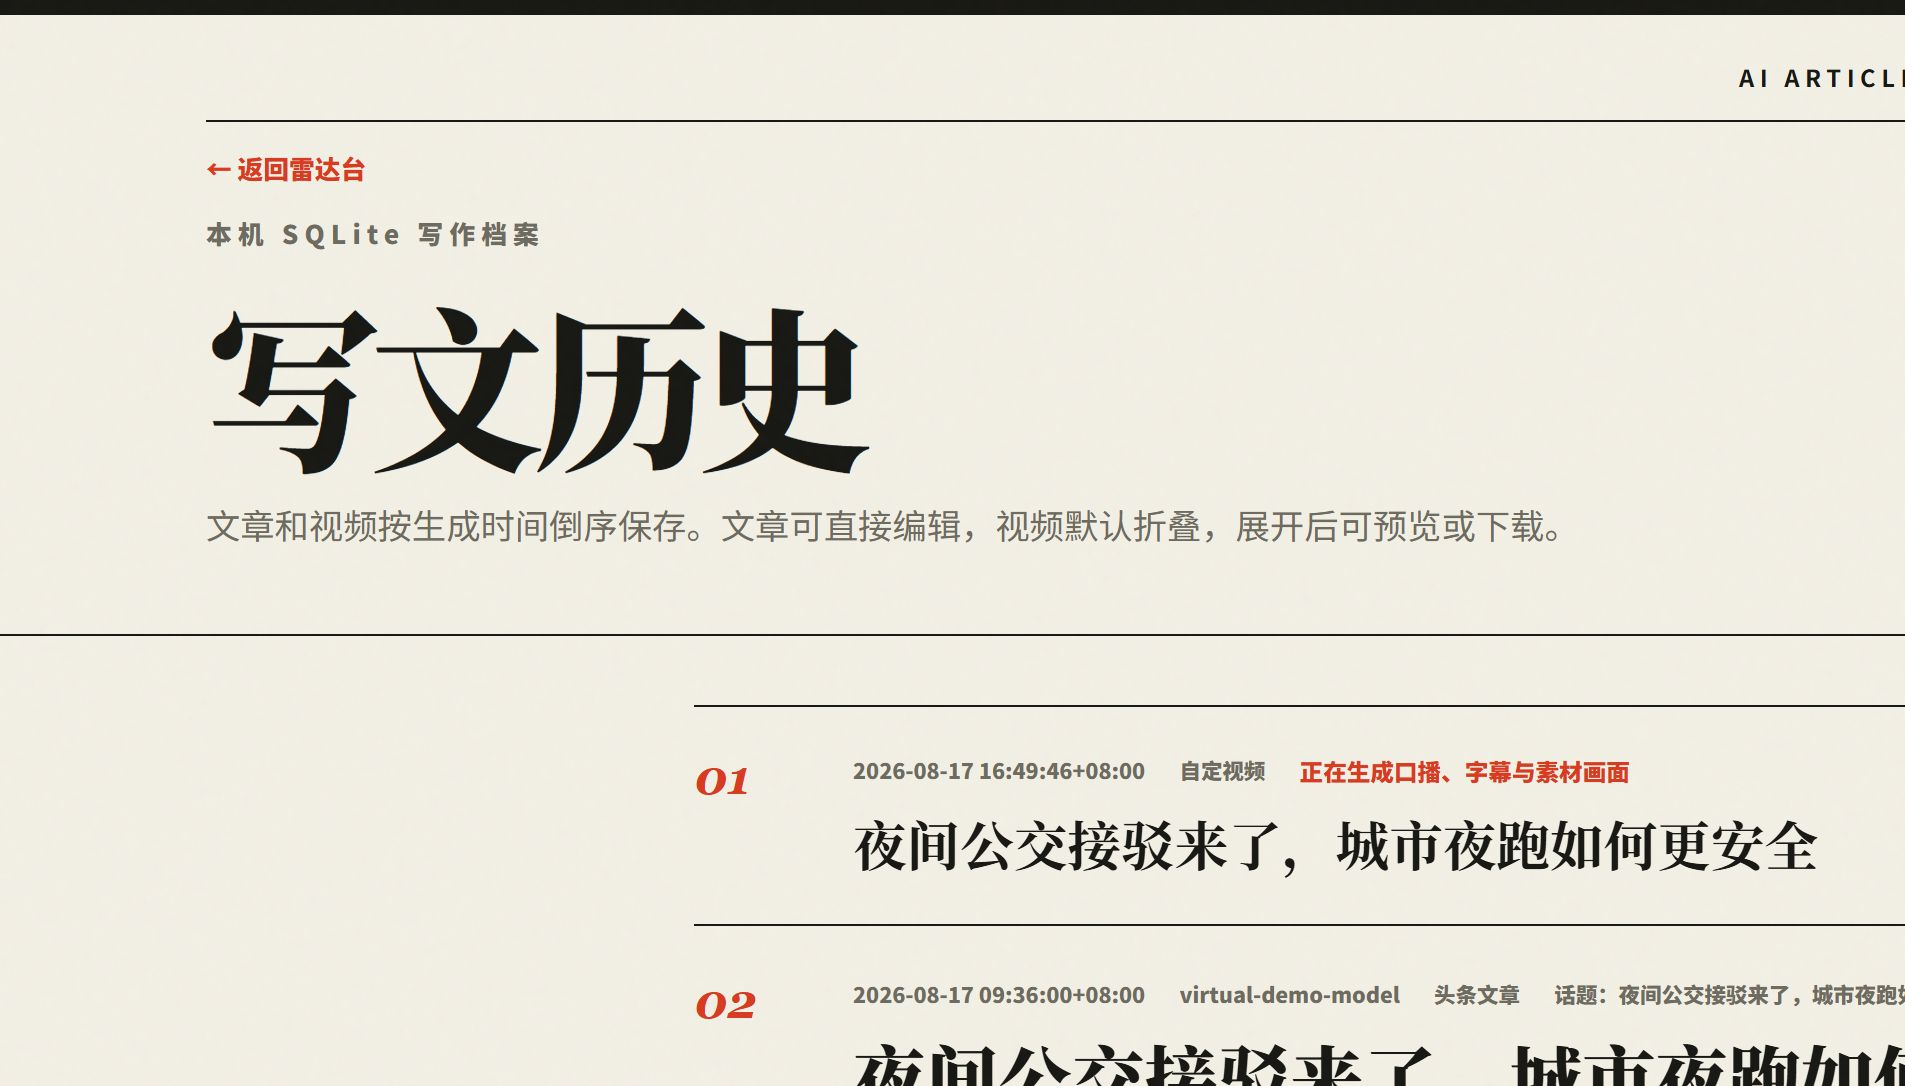
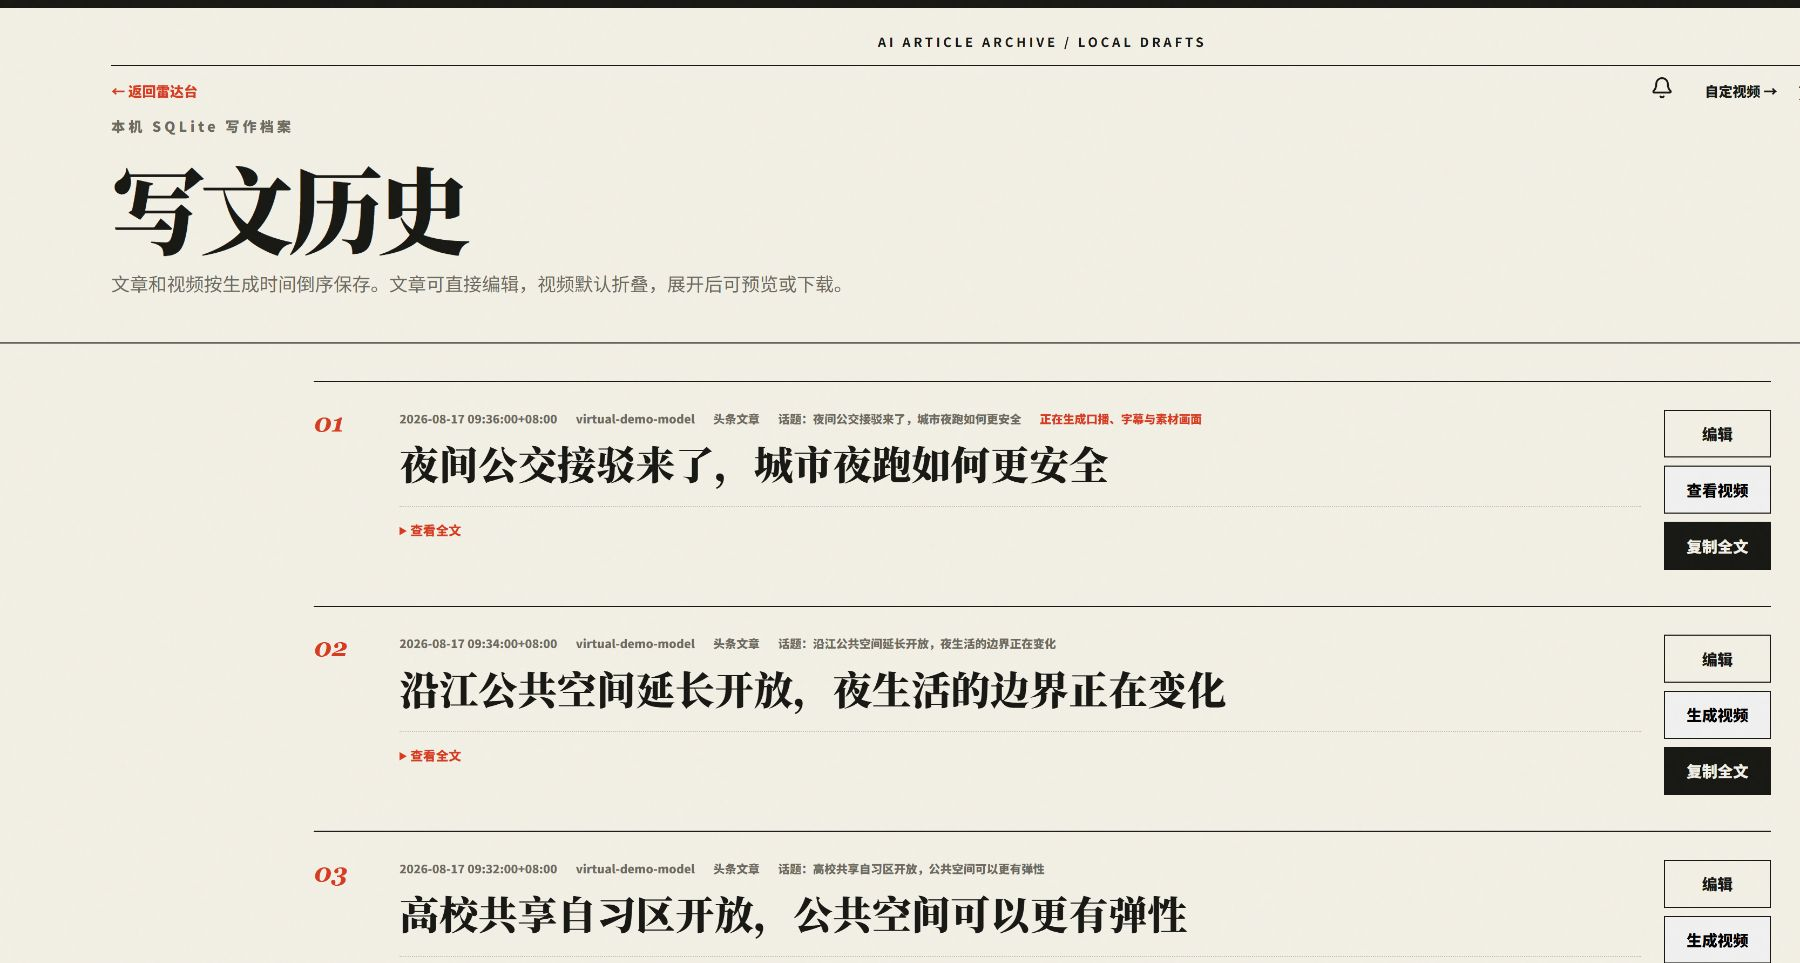
docs: align desktop screenshots and preview layout

diff --git a/README.md b/README.md
@@ -16,11 +16,13 @@ NewsNow 热榜雷达台面向新闻研究、内容创作和短视频工作流：
 
 下面的截图使用项目当前版本的真实 Flask 模板、CSS、图表和交互组件；截图中的热点、文章、任务编号、进度和评论全部是虚拟样本数据，不代表真实事件，也不会连接用户的 AI、NewsNow、MediaCrawler、素材平台或视频引擎。
 
-![热点雷达：综合总榜、平台趋势图与任务通知](docs/screenshots/hotspot-dashboard.jpg)
-
-![写文历史全页预览：文章档案与虚拟文章样本](docs/screenshots/article-history.jpg)
-
-![自定视频全页预览：真实视频生成工作台与虚拟生成状态](docs/screenshots/video-queue.jpg)
+<table>
+  <tr>
+    <td width="33%" valign="top"><img src="docs/screenshots/hotspot-dashboard.jpg" alt="热点雷达：综合总榜、平台趋势图与任务通知" width="100%"></td>
+    <td width="33%" valign="top"><img src="docs/screenshots/article-history.jpg" alt="写文历史电脑版视口与虚拟文章样本" width="100%"></td>
+    <td width="33%" valign="top"><img src="docs/screenshots/video-queue.jpg" alt="写文历史中展开的视频生成窗口" width="100%"></td>
+  </tr>
+</table>
 
 ## 能做什么
 
